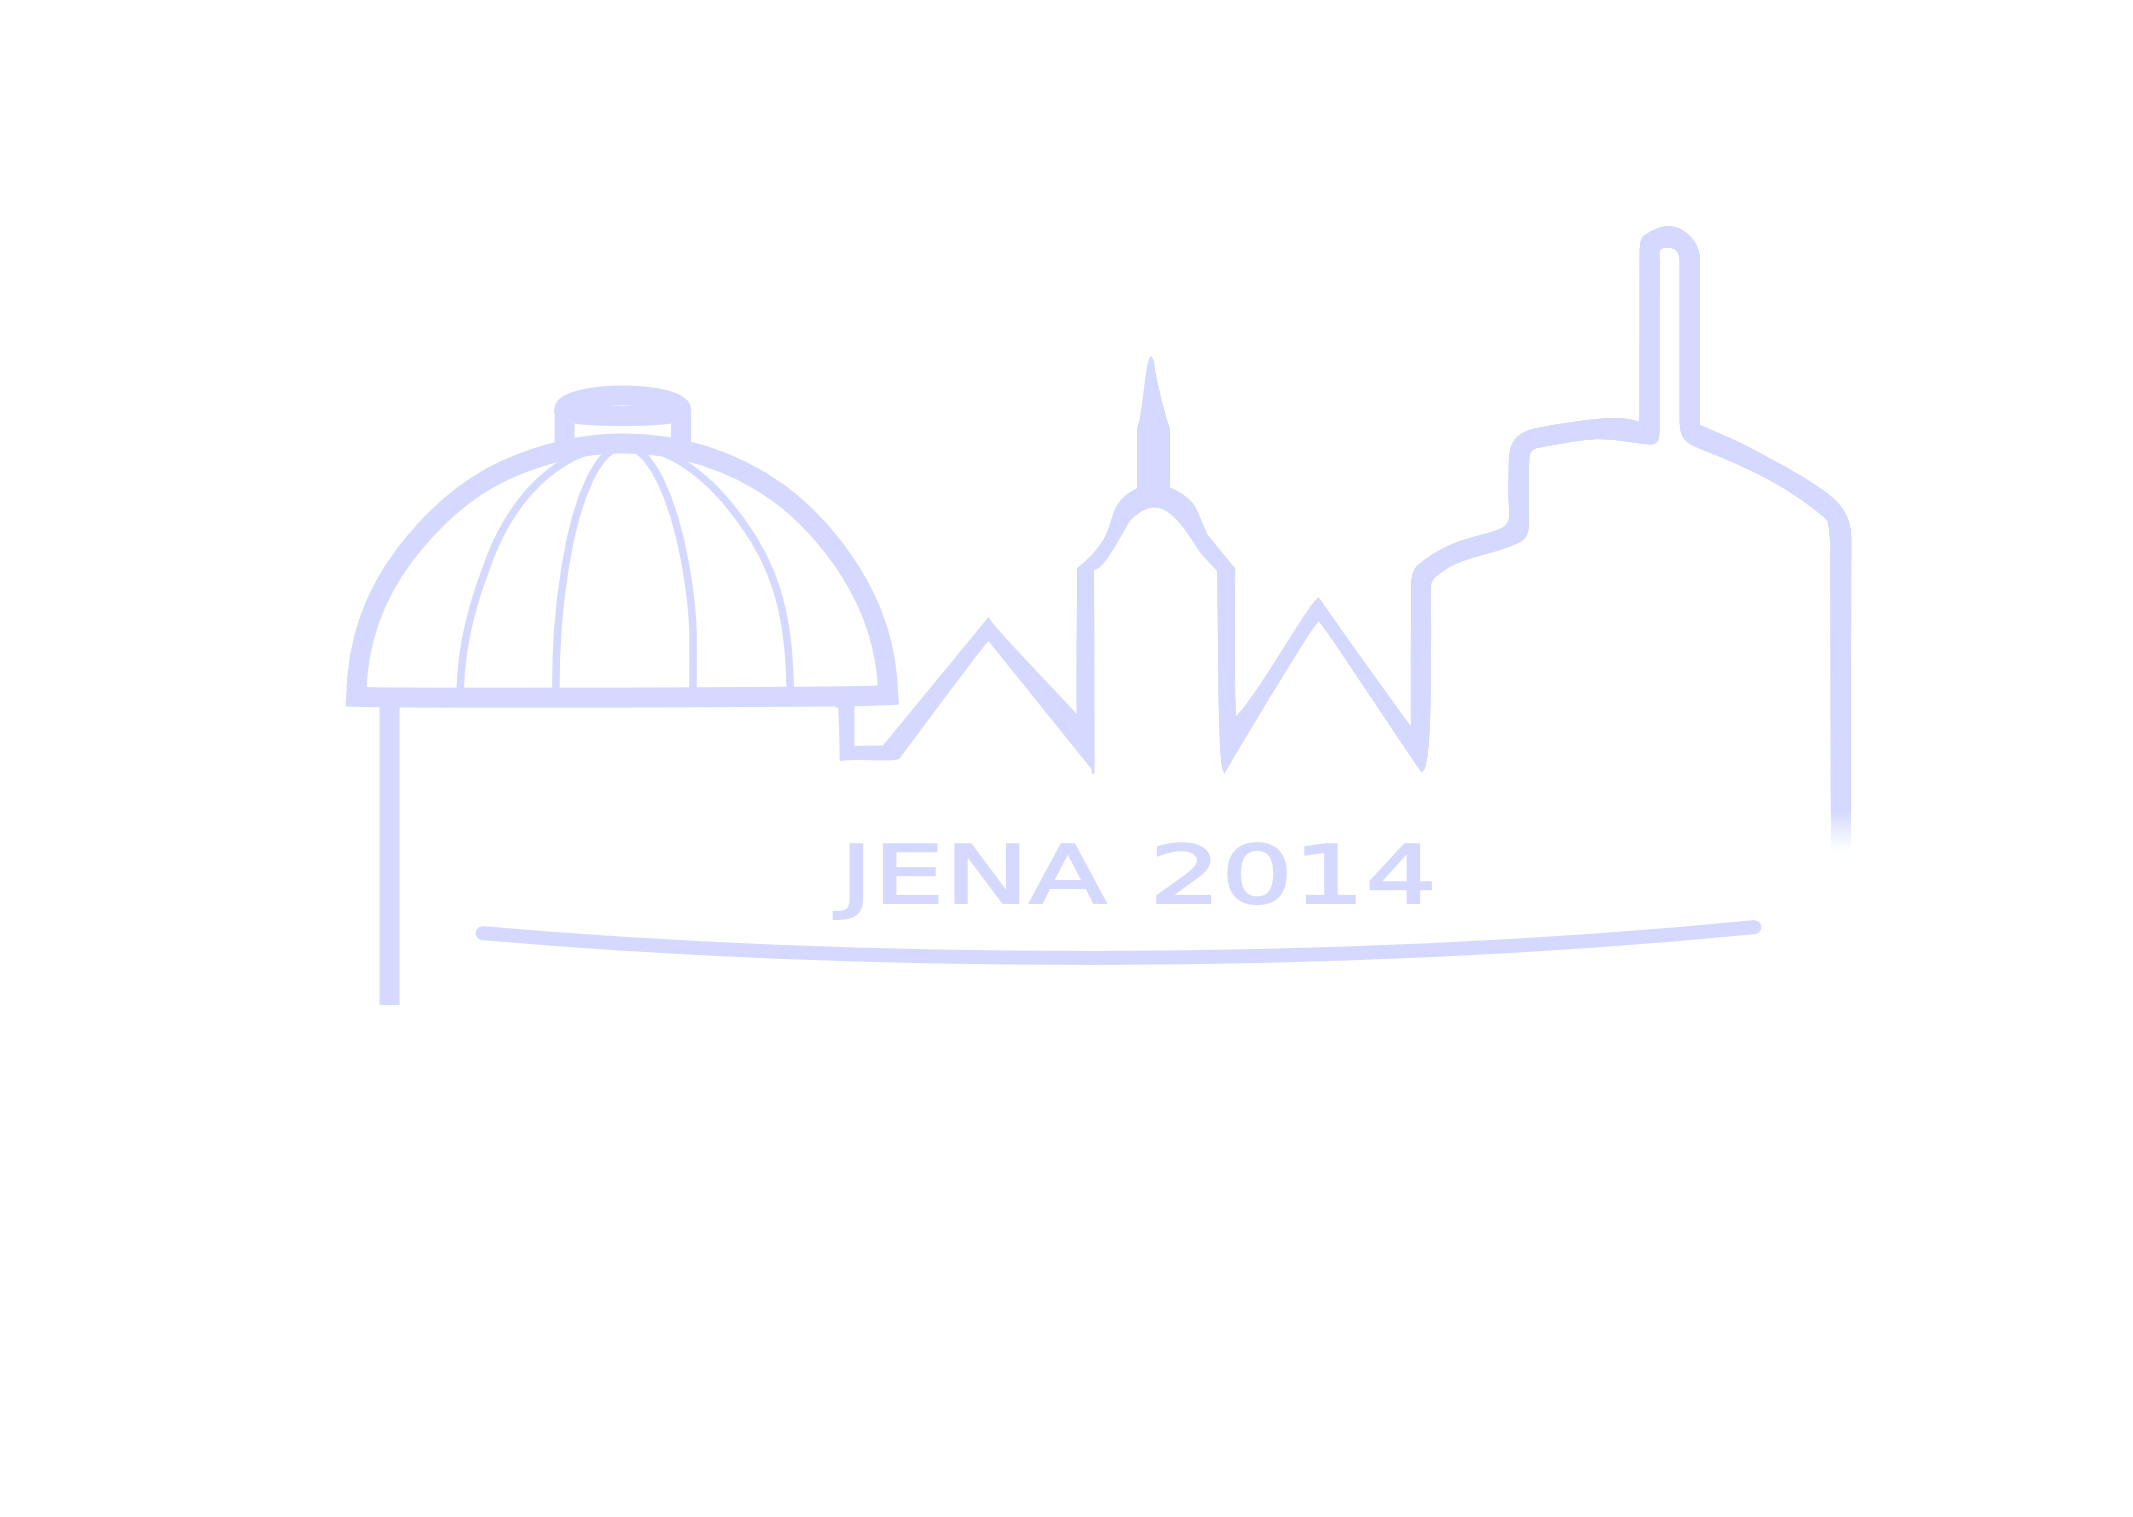
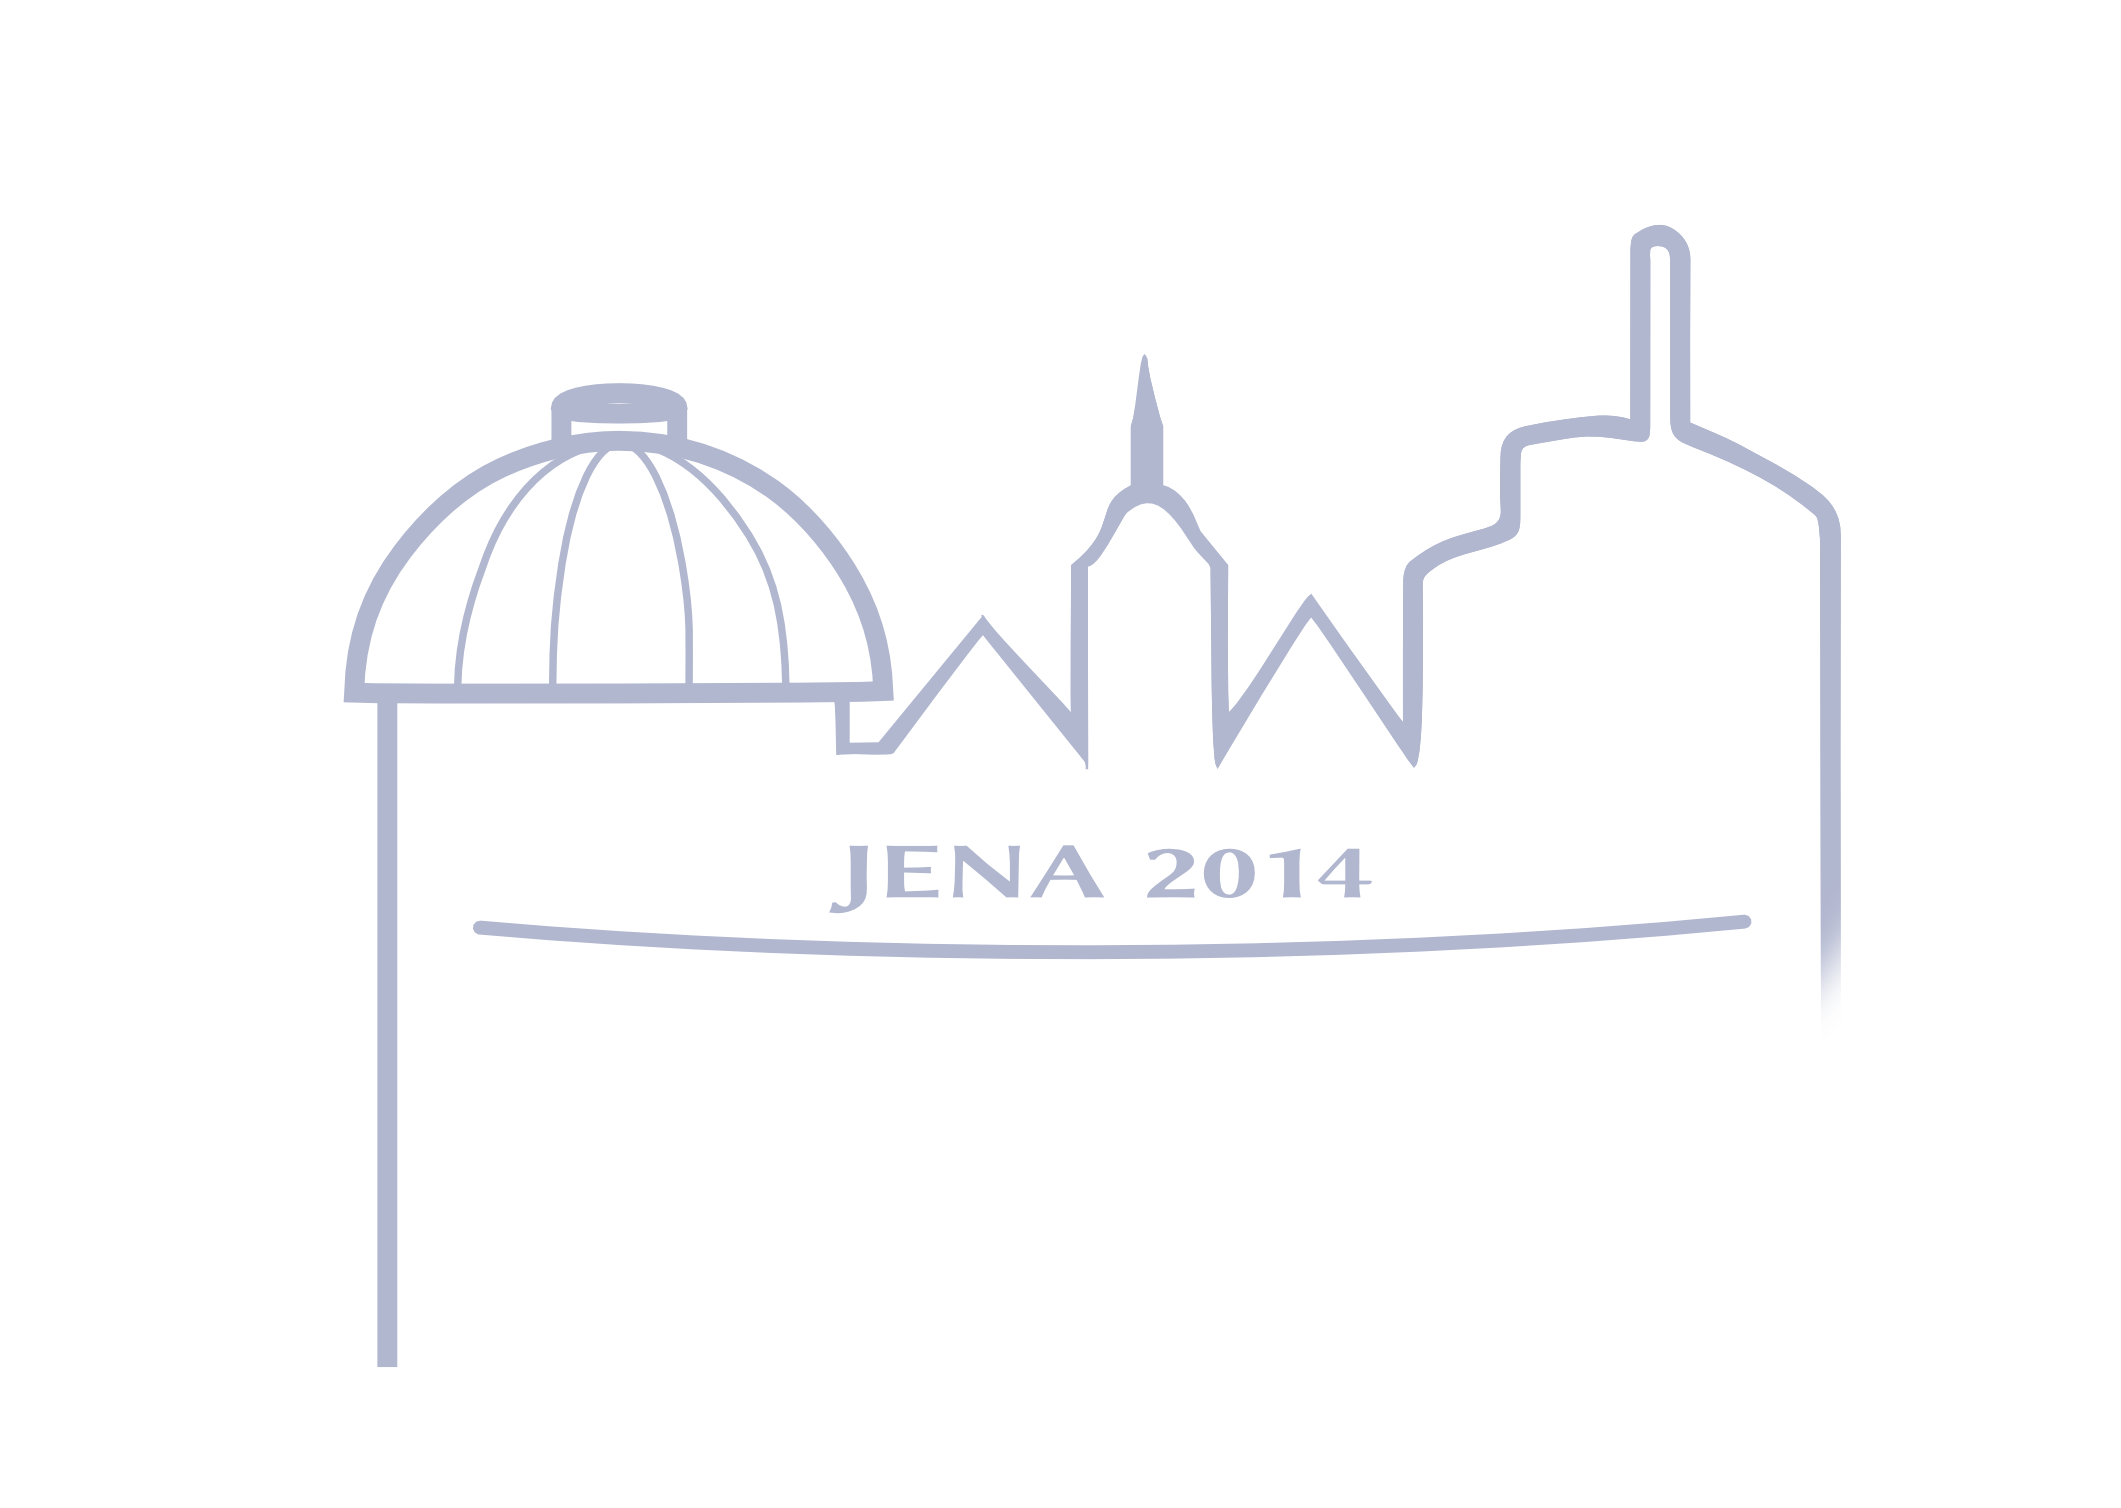
new colors for CEOI theme

Changed region(s): [[0.2178, 0.1558, 0.8713, 0.6545], [0.1556, 0.2493, 0.529, 0.9038], [0.529, 0.2493, 0.5601, 0.3428]]

diff --git a/cmscontrib/gerpythonformat/templates/ceoi/CEOITemplate.py b/cmscontrib/gerpythonformat/templates/ceoi/CEOITemplate.py
@@ -2,7 +2,7 @@
 # -*- coding: utf-8 -*-
 
 # Programming contest management system
-# Copyright © 2013 Tobias Lenz <t_lenz94@web.de>
+# Copyright © 2013-2014 Tobias Lenz <t_lenz94@web.de>
 # Copyright © 2013 Fabian Gundlach <320pointsguy@gmail.com>
 #
 # This program is free software: you can redistribute it and/or modify
@@ -33,9 +33,15 @@ class CEOITemplate(PlainTemplate):
         # Compile bar.asy
         shutil.copyfile(os.path.join(os.path.dirname(__file__), "bar.asy"),
                         "bar.asy")
+        
         contest.supply("latex", def_latex("contestday", contest.simple_query("day"))) 
         contest.supplement_file("asy", "info.asy")
         contest.compile("bar.asy")
+        
+        shutil.copyfile(os.path.join(os.path.dirname(__file__), "contestheader.tex"),
+                        "contestheader.tex")
+        shutil.copyfile(os.path.join(os.path.dirname(__file__), "translation.tex"),
+                        "translation.tex")
 
     def ontask(self, task):
         """ Some additional supplies for the latex format

diff --git a/cmscontrib/gerpythonformat/templates/ceoi/contestheader.tex b/cmscontrib/gerpythonformat/templates/ceoi/contestheader.tex
@@ -1,7 +1,7 @@
 \basicheader
 \usepackage[sc]{mathpazo}
 \linespread{1.05} 
-\definecolor{bgblue}{RGB}{214,217,255}
+\definecolor{bgblue}{RGB}{255,160,102}
 \definecolor{textblue}{RGB}{0,18,98}
 \color{textblue}
 \usepackage{colortbl}
